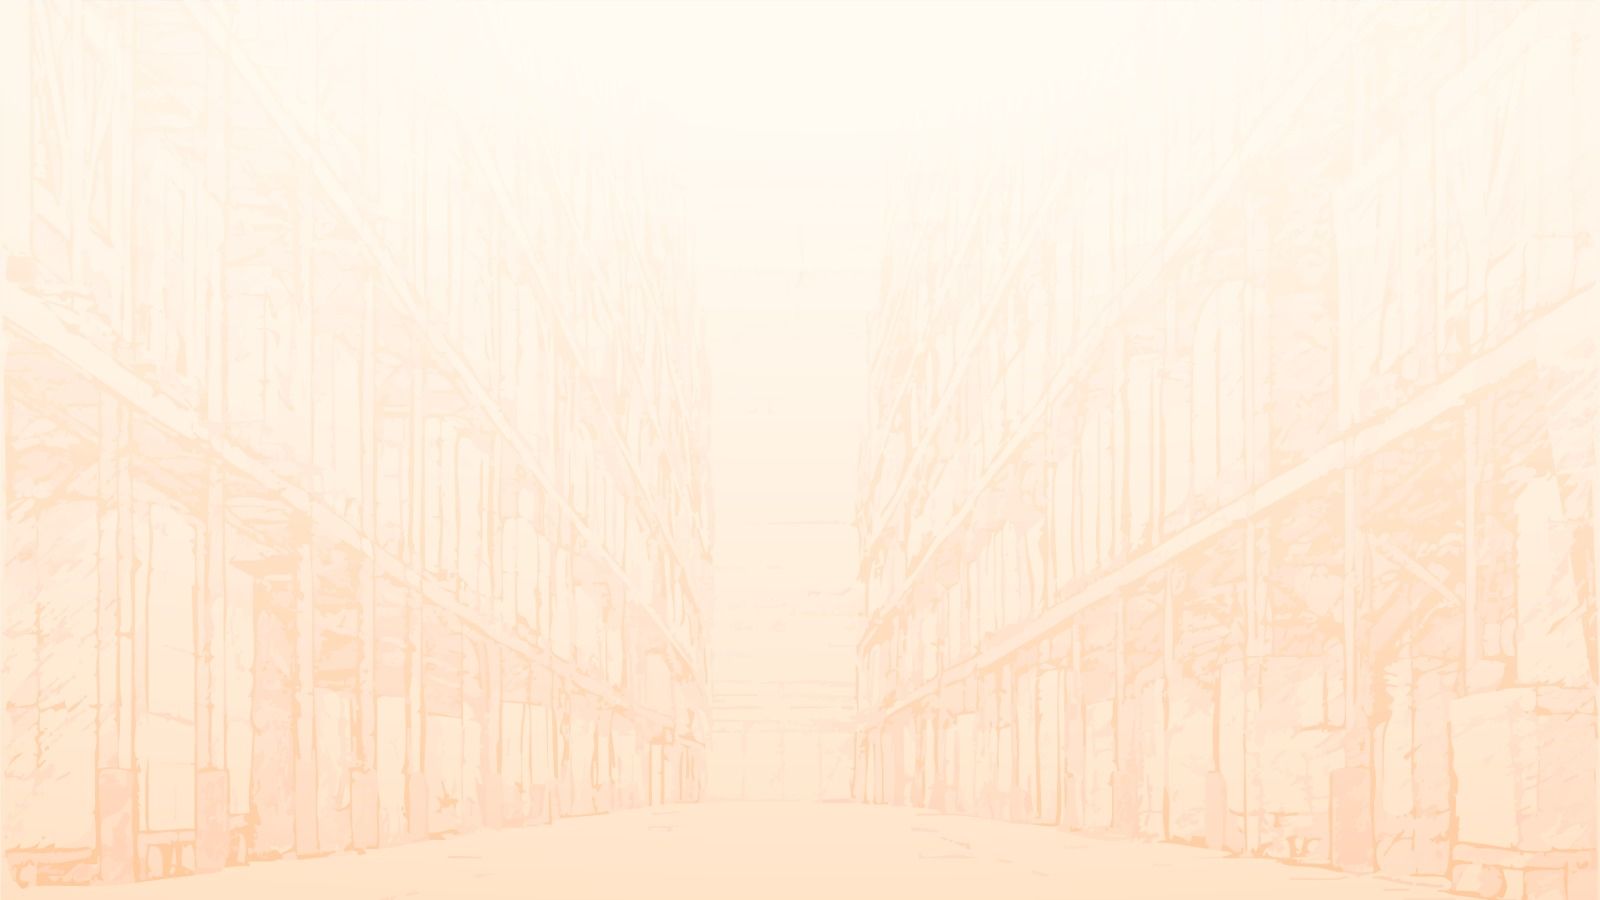
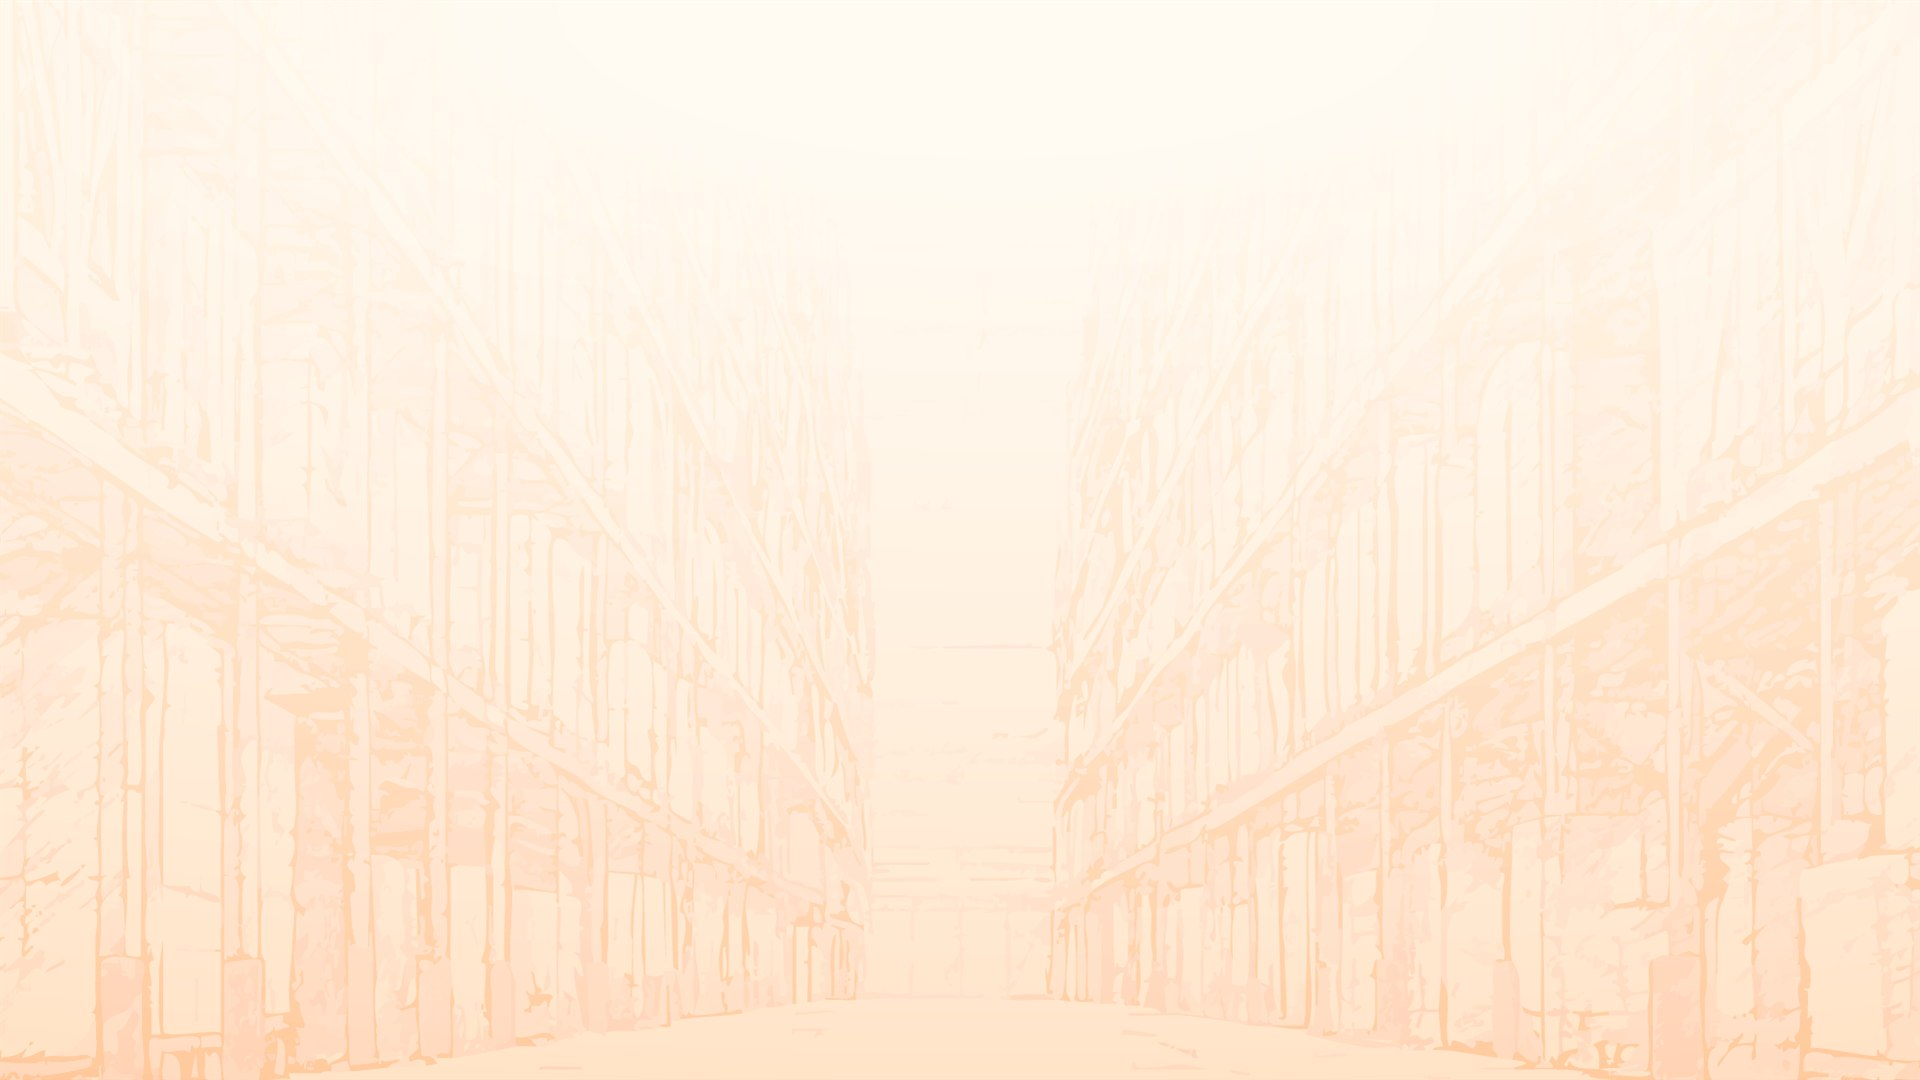
Fondos actualizados: depósito de la portada (ahora 1920×1080) y 45 años
Bordes semitransparentes recortados; el de 45 años mantiene los bordes en el rojo de la marca para que no haya costura.

diff --git a/CLAUDE.md b/CLAUDE.md
@@ -97,7 +97,11 @@ Es una diapositiva larga con scroll. Tiene una capa fija (logo y pregunta) y una
 - Las cartas todavía no tienen portadas (`img/cartas/`, 1200×800).
 - Línea de tiempo: el texto de 2020 es provisorio ("Completar…"). En 1994 quizás falta una "y" entre los nombres.
 - Las sedes del mapa son estimadas a partir de fuentes públicas: verificarlas con la empresa.
-- Mejoras ofrecidas: fuentes locales para funcionar sin internet, logo en SVG, fondo de la portada en alta resolución.
+- Mejoras ofrecidas: fuentes locales para funcionar sin internet, logo en SVG.
+
+### Fondos que manda la persona
+
+- Llegan como PNG de Illustrator de 1921×1081 con bordes de 1 px semitransparentes. Se recortan esos bordes y se guardan en JPG (calidad 88) sobre el color de fondo: `img/landing/fondo.jpg` a 1920×1080 sobre `#FFFBF3`, `fondo-45.jpg` a 1921×1081 sobre `#EF4529` (bordes en el rojo exacto, para que no haya costura).
 
 ## Verificar cambios
 
